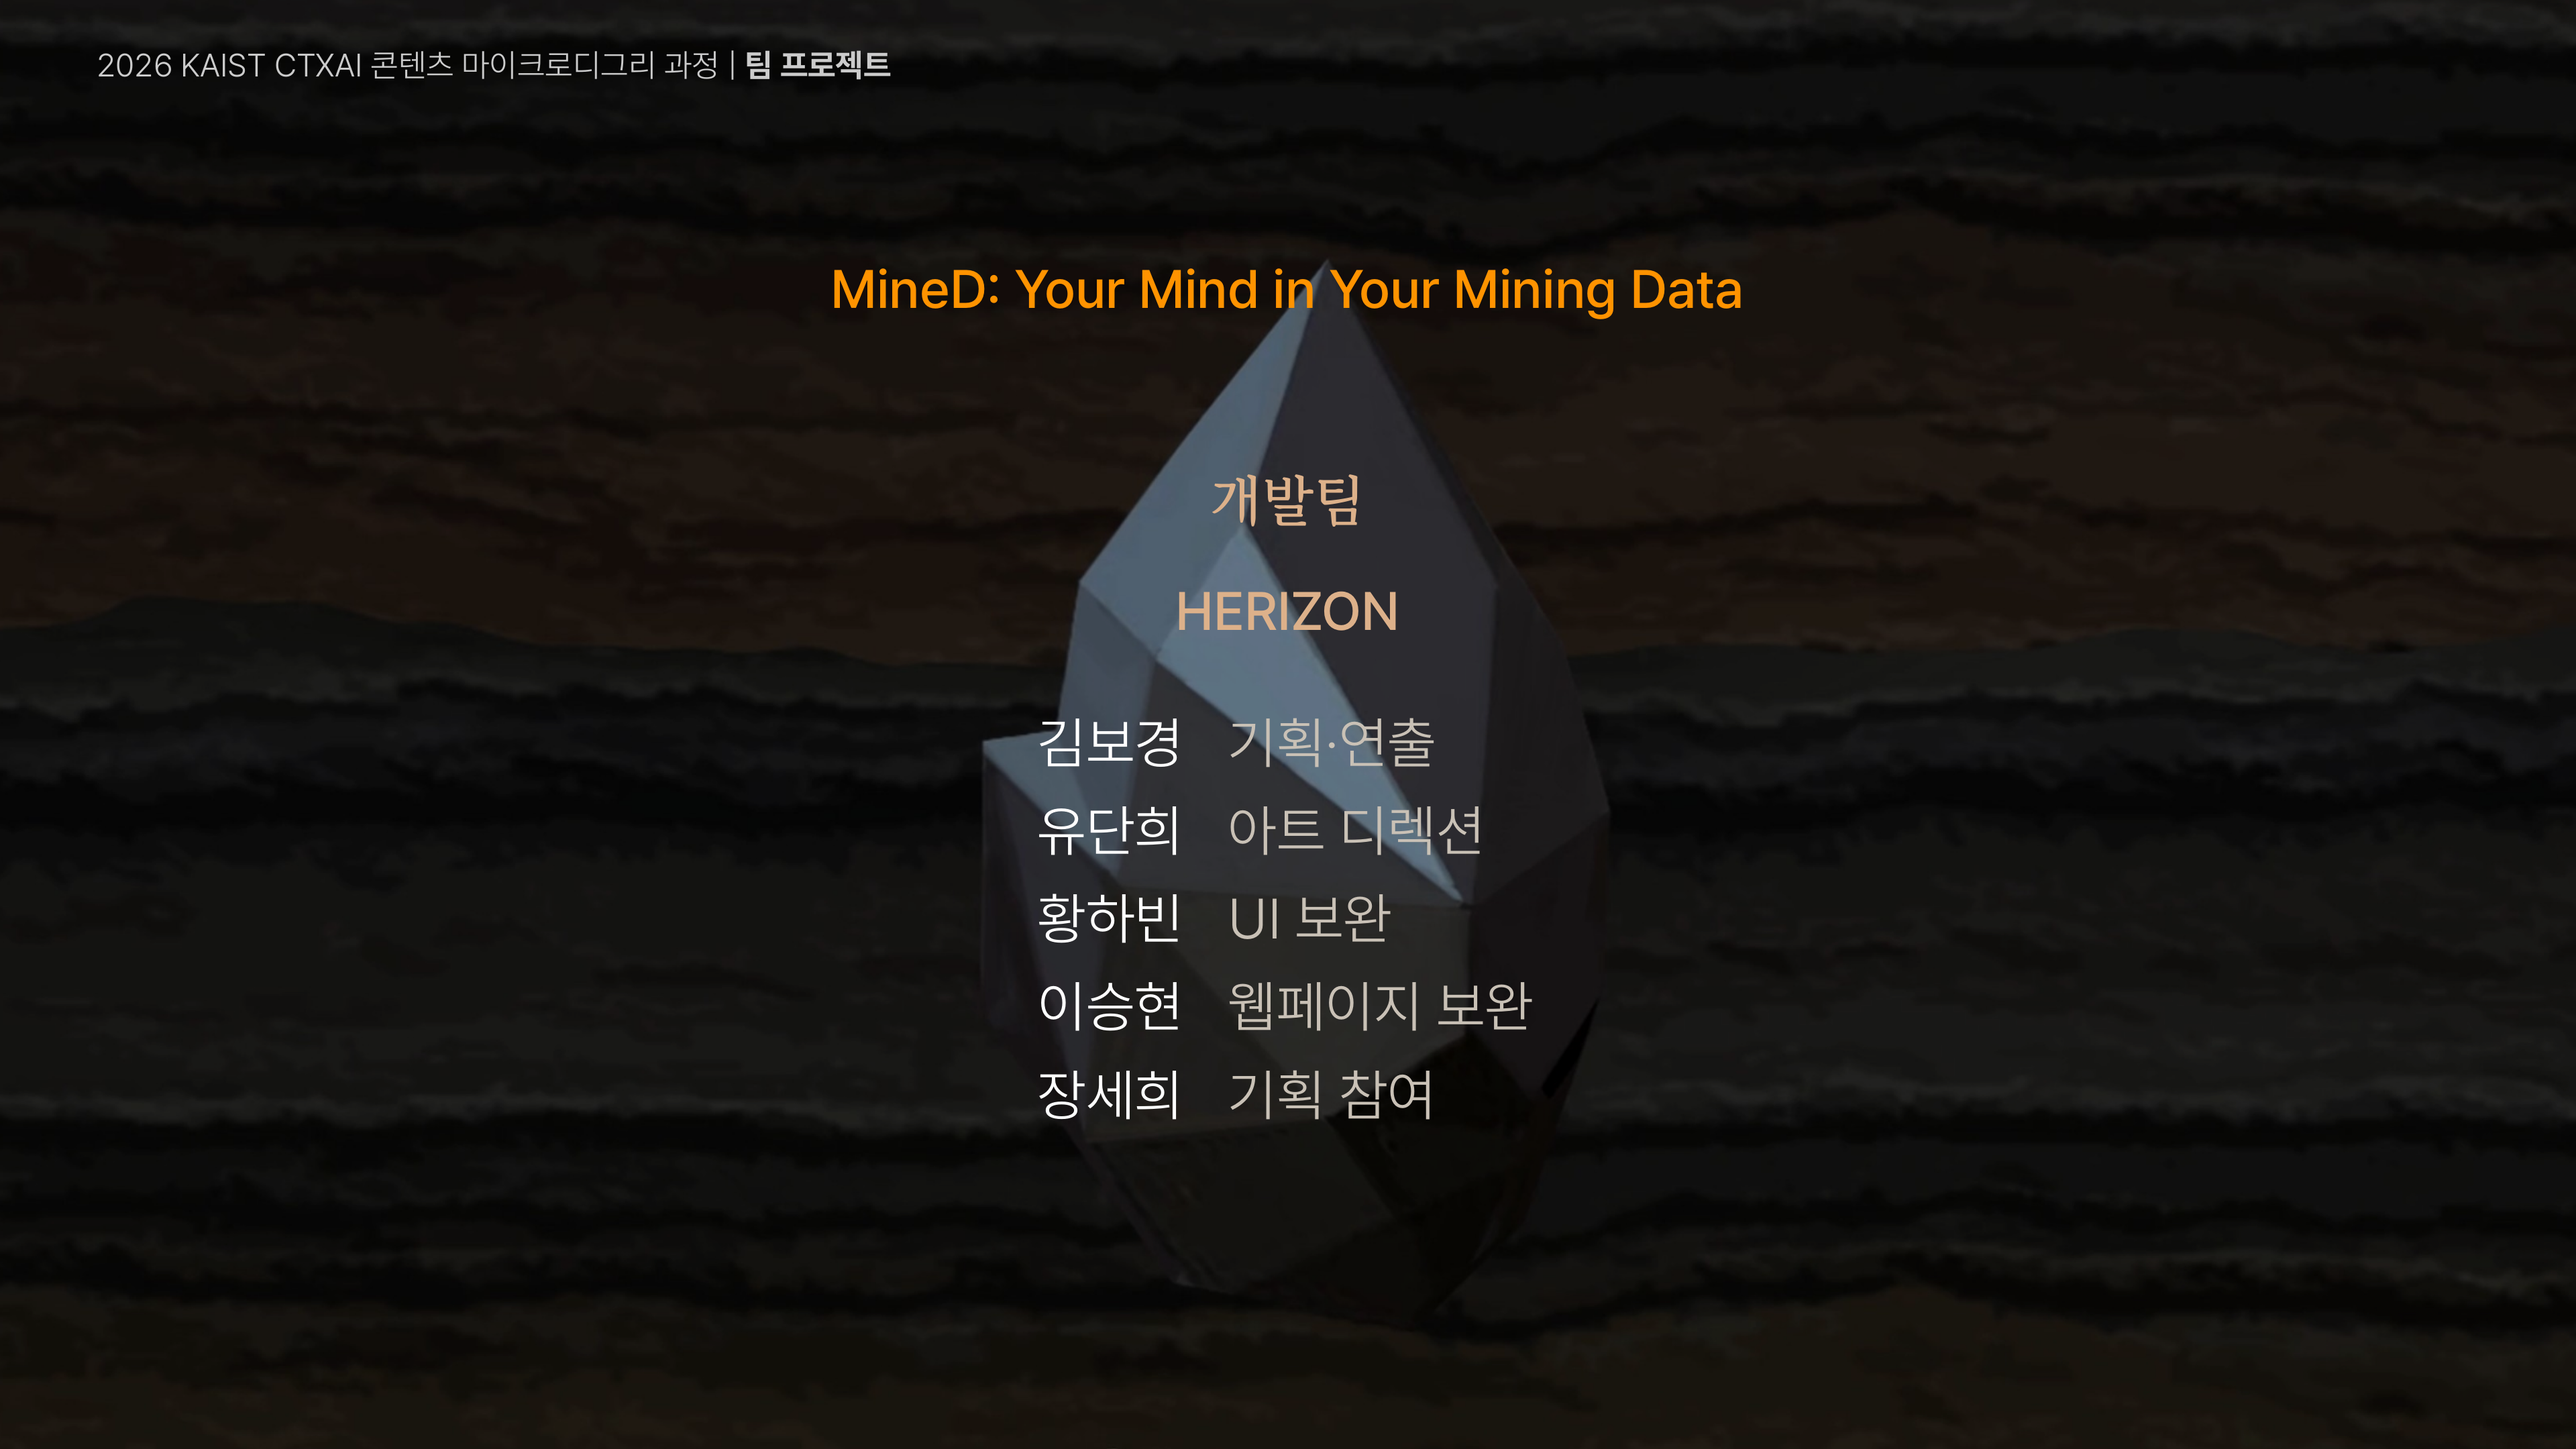
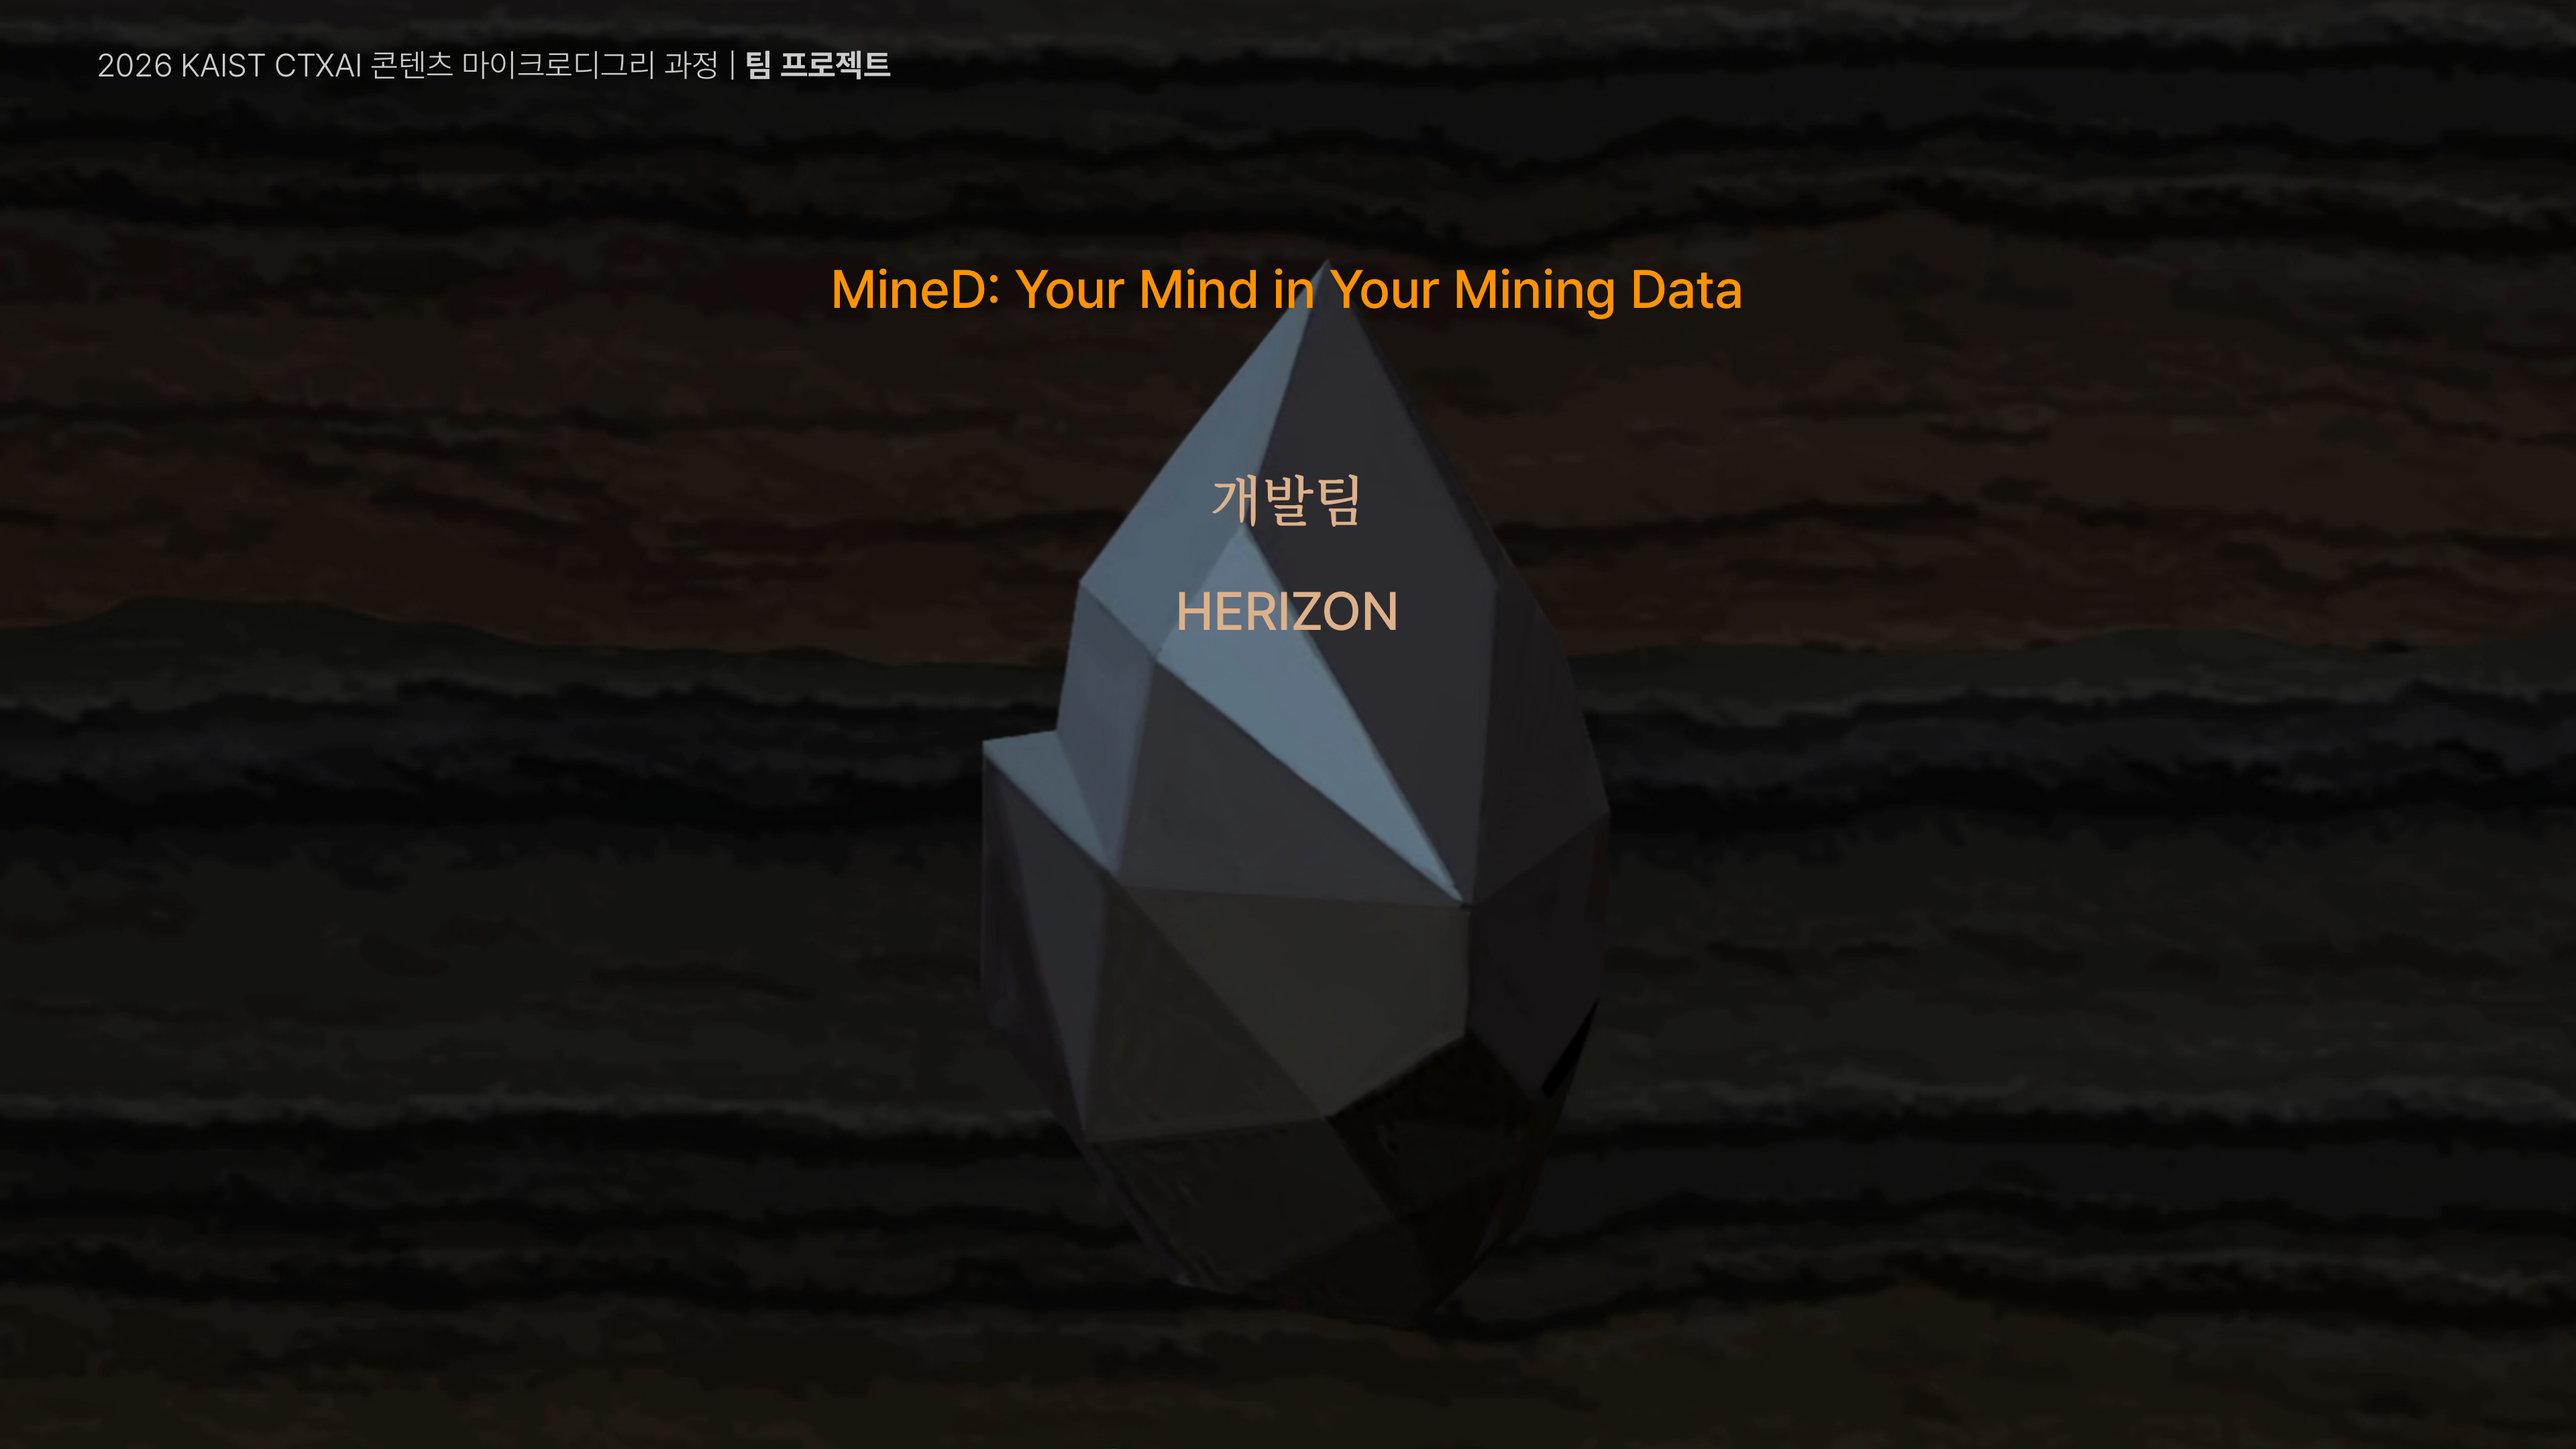
쇼케이스 v7: 크레딧 팀명만(HERIZON × Social Computing Lab / 이원재 교수 연구실 / 이서연)
Claude-Session: https://claude.ai/code/session_01H6XxrjKT2zziYGGeC5Esr8

diff --git a/showcase/v0.5_kit/layout/fill.py b/showcase/v0.5_kit/layout/fill.py
@@ -171,7 +171,7 @@ if THEME == 'dark':
 # 크레딧 이름·역할: layout/credit_names.txt 한 줄에 한 명(이 파일만 고치고 render.sh 다시 돌리면 됨)
 _cn = os.path.join(os.path.dirname(os.path.abspath(__file__)), 'credit_names.txt')
 NAMES = [l.rstrip() for l in open(_cn, encoding='utf-8') if l.strip()]
-CREDIT = os.environ.get('CREDIT', 'names')  # names=이름·역할(11/09 보별 임시 확정, 11/10 18시 팀원 문구로 갱신 가능) / team=HERIZON만
+CREDIT = os.environ.get('CREDIT', 'team')  # team=HERIZON만(11/10 보별 확정) / names=이름·역할(credit_names.txt)
 from pptx.enum.text import PP_ALIGN
 def credit_cols(slide):
     """이름(오른쪽 정렬) | 역할(왼쪽 정렬, 가는 글씨) 두 칸. 줄 높이가 같게 글자 크기는 같게 둔다."""

diff --git a/showcase/v0.5_kit/README.md b/showcase/v0.5_kit/README.md
@@ -34,5 +34,5 @@ python3 build5.py --cut sub --pre $P/slide-16.png,$P/slide-17.png,$P/slide-18.pn
 
 
 ## 크레딧 고치기
-`layout/credit_names.txt`에 한 줄에 한 명씩 `이름<탭>역할`로 적고 `layout/render.sh lay.pptx img pages`를 다시 돌린다. 이름 없이 팀명만: `CREDIT=team`.
+`layout/credit_names.txt`에 한 줄에 한 명씩 `이름<탭>역할`로 적고 `layout/render.sh lay.pptx img pages`를 다시 돌린다. 기본은 팀명만(11/10 보별 확정). 이름·역할을 넣으려면 `CREDIT=names`.
 제목 글꼴은 웹과 같은 마루 부리(MaruBuri), 본문은 Pretendard. 렌더 기기에 두 글꼴이 설치돼 있어야 한다.
